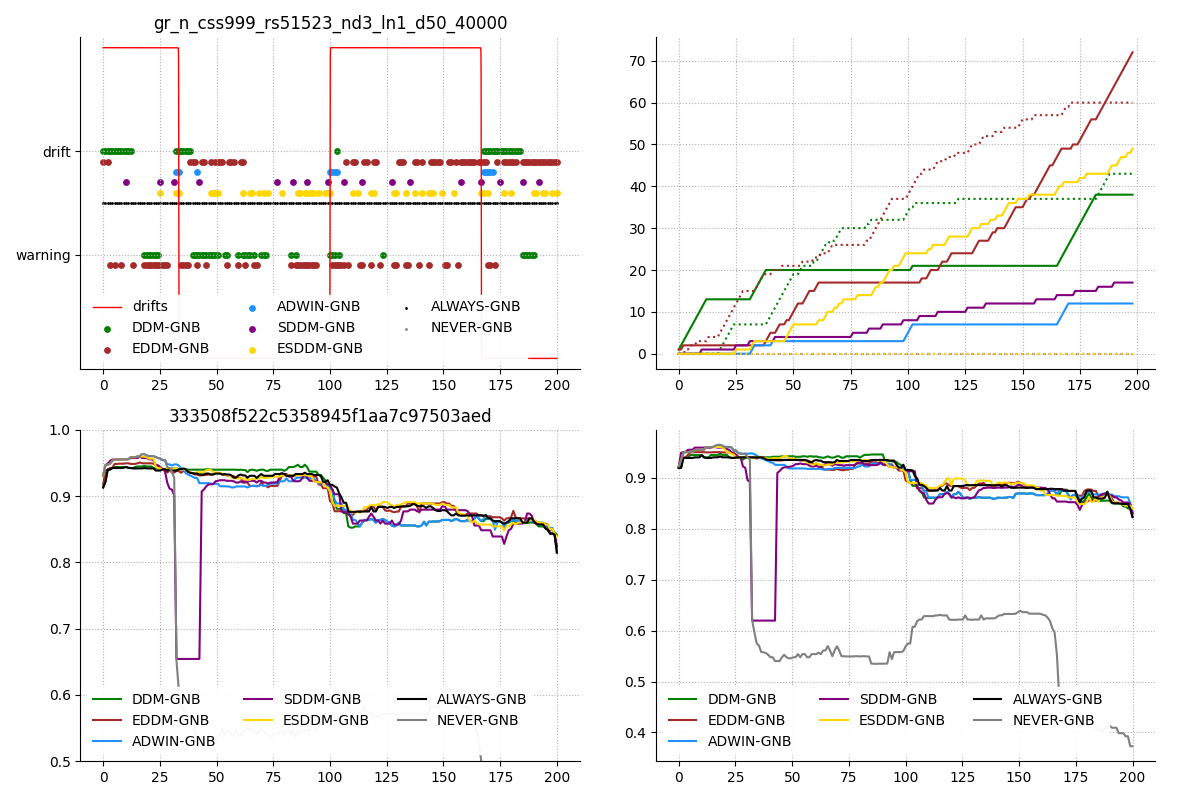
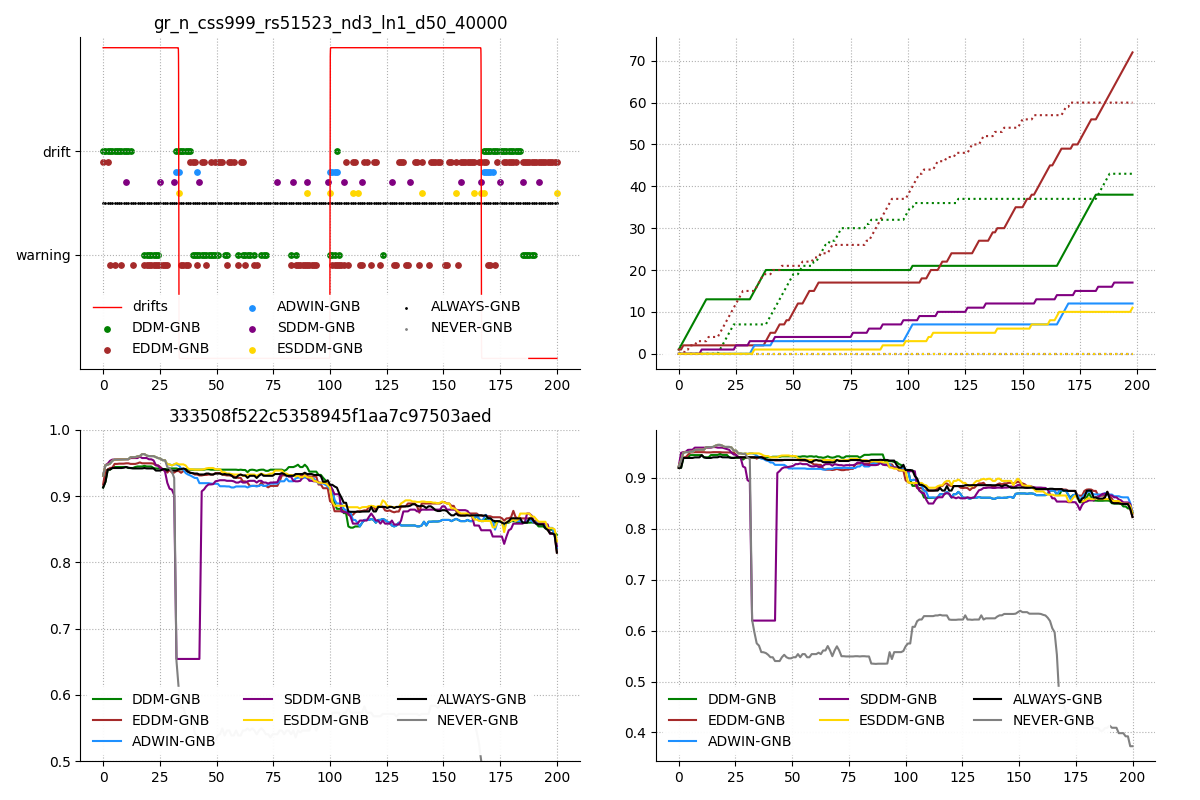
.

diff --git a/methods/ESDDM.py b/methods/ESDDM.py
@@ -21,7 +21,7 @@ class ESDDM(BaseEstimator, ClassifierMixin):
         self.drf_level = drf_level
         if drf_level is None:
             # self.drf_level = np.round(np.sqrt(self.n_detectors))
-            self.drf_level = int(self.n_detectors/2)
+            self.drf_level = int(self.n_detectors*(2/3))
 
         if self.drf_level < 1:
             self.drf_level = 1
